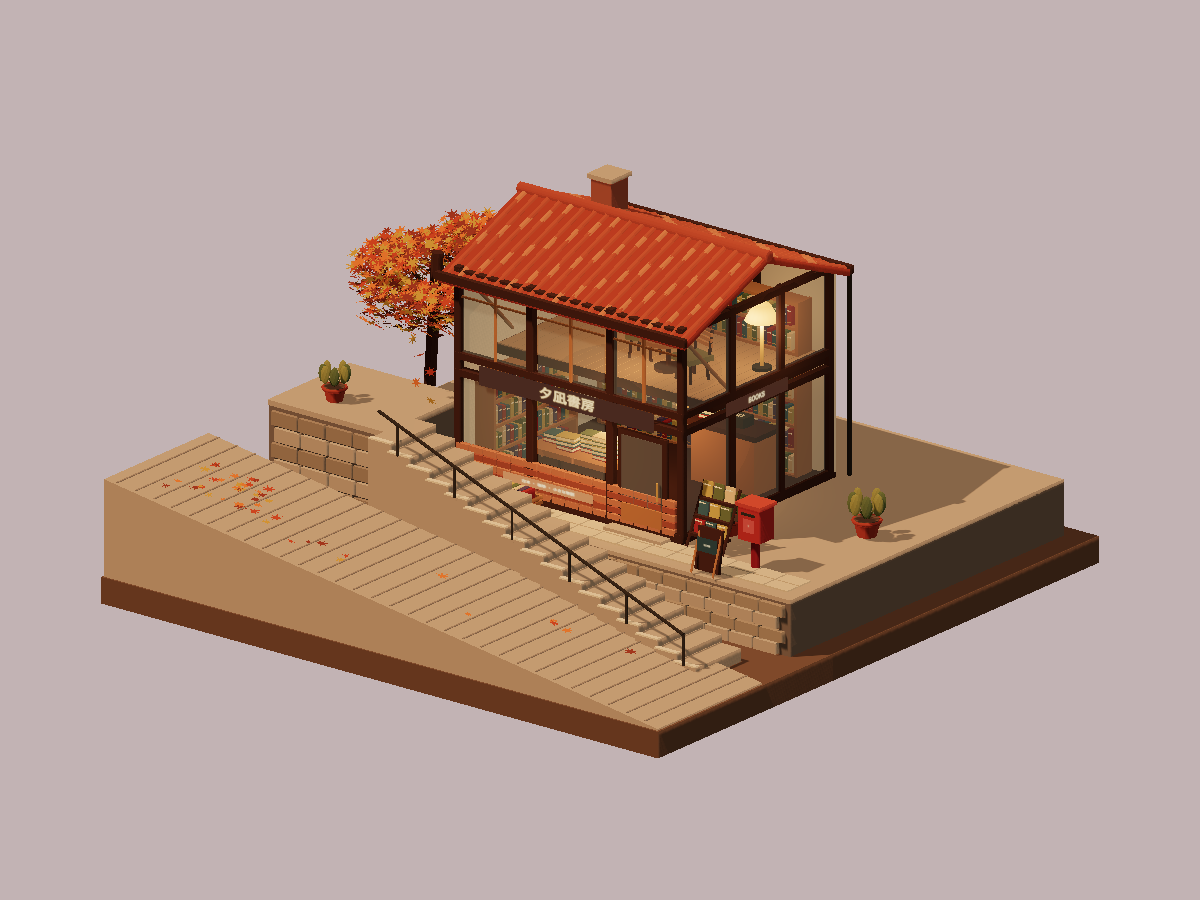
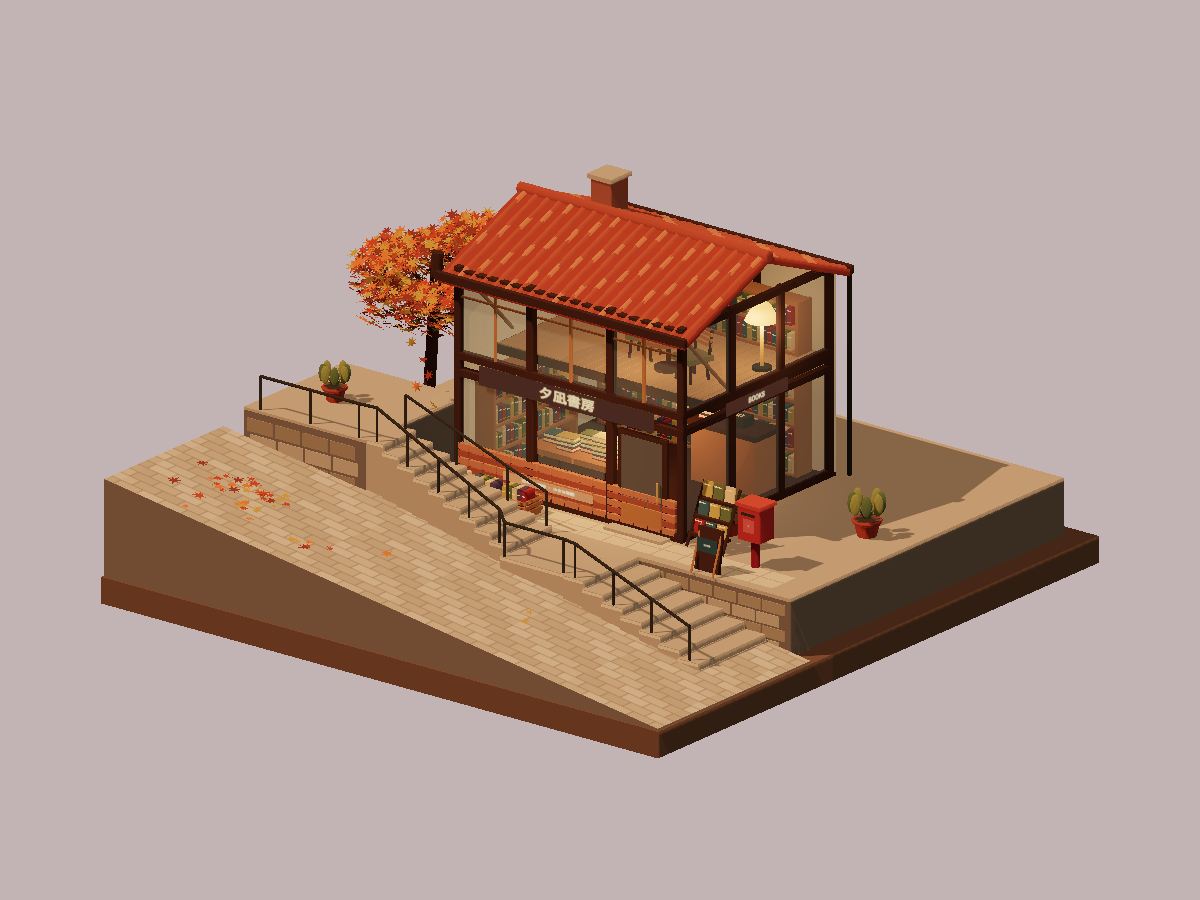
Connect the hillside road, stairs, and shop terrace

diff --git a/scenes/hillside-bookshop/src/terrain.ts b/scenes/hillside-bookshop/src/terrain.ts
@@ -1,0 +1,210 @@
+import * as THREE from "three";
+import type { Kit, XYZ } from "./kit.ts";
+
+interface Palette {
+  earth: string;
+  stone: string;
+  mortar: string;
+  iron: string;
+}
+
+interface Step {
+  left: number;
+  right: number;
+  front: number;
+  height: number;
+  mesh: THREE.Mesh;
+}
+
+export function buildBookshopTerrain(kit: Kit, colors: Palette): THREE.Mesh[] {
+  const base = 0.1;
+  const shopHeight = 1.41;
+  const highHeight = 2.87;
+  const back = 2.25;
+  const bottomX = 6.25;
+  const topX = -3.63;
+  const landingLeft = 0.5;
+  const landingRight = 2.25;
+  const roadHeight = (x: number) => 2.3 - ((x + 7.45) / 14.9) * 2.16;
+  const frontAt = (x: number) => 3.3 + ((x - topX) / (bottomX - topX)) * 1.25;
+  const box = (name: string, position: XYZ, size: XYZ, color: string) => {
+    const mesh = kit.box(position, size, color);
+    mesh.name = name;
+    return mesh;
+  };
+
+  box("bookshop-base", [0, -0.2, 0], [15, 0.6, 15], colors.earth);
+  box("bookshop-foundation", [0, 0.715, -2.4], [13.8, 1.23, 9.3], colors.mortar);
+  box("bookshop-platform", [0, shopHeight - 0.04, -2.4], [13.8, 0.08, 9.3], colors.stone);
+  box(
+    "bookshop-high-foundation",
+    [-5.265, (base + highHeight - 0.06) / 2, 1.7],
+    [3.27, highHeight - 0.06 - base, 3.4],
+    colors.mortar,
+  );
+  const highLanding = box(
+    "bookshop-high-landing",
+    [-5.265, highHeight - 0.03, 1.7],
+    [3.27, 0.06, 3.4],
+    colors.stone,
+  );
+
+  const steps: Step[] = [];
+  const tread = (left: number, right: number, height: number, front: number, landing = false) => {
+    const mesh = box(
+      landing ? "bookshop-stair-landing" : "bookshop-stair-tread",
+      [(left + right) / 2, (base + height) / 2, (back + front) / 2],
+      [right - left, height - base, front - back],
+      colors.stone,
+    );
+    const step = { left, right, front, height, mesh };
+    steps.push(step);
+    const edge = kit.mesh(
+      new THREE.PlaneGeometry(right - left - 0.018, 0.065),
+      kit.toon("#d1bda0"),
+      [(left + right) / 2, height - 0.045, front + 0.002],
+    );
+    edge.name = "bookshop-stair-nosing";
+    return step;
+  };
+
+  const lowSteps: Step[] = [];
+  const lowRise = (shopHeight - roadHeight(bottomX)) / 7;
+  for (let i = 0; i < 7; i++) {
+    const right = bottomX - (i * (bottomX - landingRight)) / 7;
+    const left = bottomX - ((i + 1) * (bottomX - landingRight)) / 7;
+    lowSteps.push(tread(left, right, roadHeight(bottomX) + (i + 1) * lowRise, frontAt(right)));
+  }
+  const landing = tread(landingLeft, landingRight, shopHeight, frontAt(landingRight), true);
+  const highSteps: Step[] = [];
+  for (let i = 0; i < 9; i++) {
+    const right = landingLeft - (i * (landingLeft - topX)) / 9;
+    const left = landingLeft - ((i + 1) * (landingLeft - topX)) / 9;
+    highSteps.push(
+      tread(left, right, shopHeight + ((i + 1) * (highHeight - shopHeight)) / 9, frontAt(right)),
+    );
+  }
+
+  // Match the ramp's inner boundary to every tread, rather than overlapping a rectangular wedge.
+  const boundary: [number, number][] = [
+    [-7.45, 3.4],
+    [topX, 3.4],
+  ];
+  for (const step of [...steps].sort((a, b) => a.left - b.left)) {
+    boundary.push([step.left, step.front], [step.right, step.front]);
+  }
+  boundary.push([bottomX, back], [7.45, back], [7.45, 7.45], [-7.45, 7.45]);
+  const footprint = new THREE.Shape();
+  boundary.forEach(([x, z], i) => {
+    if (i === 0) footprint.moveTo(x, -z);
+    else footprint.lineTo(x, -z);
+  });
+  footprint.closePath();
+  const rampGeometry = new THREE.ExtrudeGeometry(footprint, {
+    depth: 1,
+    bevelEnabled: false,
+  });
+  const rampPositions = rampGeometry.getAttribute("position");
+  for (let i = 0; i < rampPositions.count; i++) {
+    const x = rampPositions.getX(i),
+      z = -rampPositions.getY(i),
+      fraction = rampPositions.getZ(i);
+    rampPositions.setXYZ(i, x, base + fraction * (roadHeight(x) - base), z);
+  }
+  rampGeometry.computeVertexNormals();
+  const street = kit.mesh(rampGeometry, kit.toon(colors.mortar), [0, 0, 0]);
+  street.name = "bookshop-street";
+
+  const paving = kit.paint(512, 512, (ctx) => {
+    ctx.fillStyle = "#887e70";
+    ctx.fillRect(0, 0, 512, 512);
+    const shades = ["#b2a18a", "#b8a790", "#ac9b84", "#bdad95", "#ae9e87"];
+    for (let row = 0; row < 8; row++) {
+      for (let col = -1; col < 5; col++) {
+        ctx.fillStyle =
+          shades[(((row * 7 + col * 3) % shades.length) + shades.length) % shades.length];
+        ctx.fillRect(col * 128 + (row % 2) * 64 + 3, row * 64 + 3, 122, 58);
+      }
+    }
+  });
+  paving.wrapS = paving.wrapT = THREE.RepeatWrapping;
+  paving.repeat.set(1 / 2.4, 1 / 2.4);
+  const pavingMaterial = kit.toon("#ffffff").clone();
+  pavingMaterial.map = paving;
+  const pavingGeometry = new THREE.ShapeGeometry(footprint);
+  const pavingPositions = pavingGeometry.getAttribute("position");
+  for (let i = 0; i < pavingPositions.count; i++) {
+    const x = pavingPositions.getX(i),
+      z = -pavingPositions.getY(i);
+    pavingPositions.setXYZ(i, x, roadHeight(x) + 0.004, z);
+  }
+  pavingGeometry.computeVertexNormals();
+  const roadSurface = kit.mesh(pavingGeometry, pavingMaterial, [0, 0, 0]);
+  roadSurface.name = "bookshop-road-surface";
+
+  for (let row = 0; row < 4; row++) {
+    for (let col = 0; col < 21; col++) {
+      box(
+        "bookshop-retaining-stone",
+        [-6.7 + col * 0.65 + (row % 2) * 0.16, 0.24 + row * 0.29, back + 0.009],
+        [0.59, 0.245, 0.018],
+        row % 2 ? "#9a8871" : colors.stone,
+      );
+    }
+  }
+  for (let row = 0; row < 7; row++) {
+    for (let col = 0; col < 4; col++) {
+      box(
+        "bookshop-high-retaining-stone",
+        [-6.45 + col * 0.74 + (row % 2) * 0.08, 0.35 + row * 0.36, 3.41],
+        [0.67, 0.3, 0.018],
+        row % 2 ? colors.stone : "#93816c",
+      );
+    }
+  }
+  for (let x = -2.68; x < 6.5; x += 0.66) {
+    for (let z = 1.38; z < 2.1; z += 0.42) {
+      const tile = kit.mesh(new THREE.PlaneGeometry(0.62, 0.38), kit.toon("#c5b394"), [
+        x,
+        shopHeight + 0.002,
+        z,
+      ]);
+      tile.rotation.x = -Math.PI / 2;
+    }
+  }
+
+  const guardPoints: XYZ[] = [];
+  const post = (x: number, z: number, surface: number, support: THREE.Mesh, rail: XYZ[]) => {
+    const top: XYZ = [x, surface + 0.76, z];
+    const mesh = kit.rod([x, surface, z], top, 0.028, colors.iron);
+    mesh.name = "bookshop-guard-post";
+    mesh.userData.support = support.uuid;
+    rail.push(top);
+  };
+  lowSteps.forEach((step, i) => {
+    if (i % 2 === 0)
+      post((step.left + step.right) / 2, step.front - 0.065, step.height, step.mesh, guardPoints);
+  });
+  post(landing.right - 0.08, landing.front - 0.065, landing.height, landing.mesh, guardPoints);
+  post(landing.left + 0.08, landing.front - 0.065, landing.height, landing.mesh, guardPoints);
+  highSteps.forEach((step, i) => {
+    if (i % 2 === 0)
+      post((step.left + step.right) / 2, step.front - 0.065, step.height, step.mesh, guardPoints);
+  });
+  post(-3.85, 3.335, highHeight, highLanding, guardPoints);
+  post(-5.15, 3.335, highHeight, highLanding, guardPoints);
+  post(-6.5, 3.335, highHeight, highLanding, guardPoints);
+  for (let i = 1; i < guardPoints.length; i++) {
+    kit.rod(guardPoints[i - 1], guardPoints[i], 0.036, colors.iron).name = "bookshop-guard-rail";
+  }
+  const innerRail: XYZ[] = [];
+  post(landingLeft - 0.1, back + 0.07, highSteps[0].height, highSteps[0].mesh, innerRail);
+  highSteps.forEach((step, i) => {
+    if (i > 0 && i % 3 === 2)
+      post((step.left + step.right) / 2, back + 0.07, step.height, step.mesh, innerRail);
+  });
+  for (let i = 1; i < innerRail.length; i++) {
+    kit.rod(innerRail[i - 1], innerRail[i], 0.032, colors.iron).name = "bookshop-guard-rail";
+  }
+  return [street, roadSurface];
+}

diff --git a/scenes/hillside-bookshop/src/model.ts b/scenes/hillside-bookshop/src/model.ts
@@ -2,6 +2,7 @@ import * as THREE from "three";
 import { type Kit, type XYZ } from "./kit.ts";
 import type { SceneAnimation } from "./types.ts";
 import { scatterGroundLeaves } from "./ground-leaves.ts";
+import { buildBookshopTerrain } from "./terrain.ts";
 
 const C = {
   earth: "#715947",
@@ -34,26 +35,6 @@ export function buildScene(kit: Kit): SceneAnimation {
     const mesh = kit.mesh(new THREE.IcosahedronGeometry(r, 1), kit.toon(color), p);
     if (scale) mesh.scale.set(...scale);
     return mesh;
-  };
-  const wedge = (
-    x: number,
-    z: number,
-    width: number,
-    depth: number,
-    left: number,
-    right: number,
-  ) => {
-    const shape = new THREE.Shape();
-    shape.moveTo(-width / 2, 0.1);
-    shape.lineTo(width / 2, 0.1);
-    shape.lineTo(width / 2, right);
-    shape.lineTo(-width / 2, left);
-    shape.closePath();
-    return kit.mesh(
-      new THREE.ExtrudeGeometry(shape, { depth, bevelEnabled: false }),
-      kit.toon(C.stone),
-      [x, 0, z - depth / 2],
-    );
   };
   const book = (
     x: number,
@@ -145,53 +126,7 @@ export function buildScene(kit: Kit): SceneAnimation {
     for (let i = 0; i < 3; i++) box([0, 0.76 + i * 0.12, -0.3], [0.57, 0.08, 0.045], C.honey, g);
   };
 
-  // The whole diorama sits on a square slab; the street climbs across its face.
-  box([0, -0.2, 0], [15, 0.6, 15], C.earth);
-  box([0, 0.7, -2.4], [13.8, 1.2, 9.3], C.mortar);
-  box([0, 1.33, -2.4], [13.8, 0.09, 9.3], C.stone);
-  const street = wedge(0, 5.68, 14.9, 3.55, 2.3, 0.14);
-  const leafSurfaces = [street];
-  for (let i = 0; i < 30; i++) {
-    const x = -7.13 + i * 0.49;
-    const y = 2.3 - ((x + 7.45) / 14.9) * 2.16;
-    const cobble = box([x, y + 0.035, 5.68], [0.035, 0.018, 3.48], "#8e8171");
-    cobble.rotation.z = -0.144;
-    leafSurfaces.push(cobble);
-  }
-  for (let row = 0; row < 4; row++) {
-    for (let col = 0; col < 21; col++) {
-      const x = -6.7 + col * 0.65 + (row % 2) * 0.16;
-      box([x, 0.24 + row * 0.29, 2.28], [0.59, 0.245, 0.18], row % 2 ? "#9a8871" : C.stone);
-    }
-  }
-  // Broad stair switches diagonally from the low eastern street to the high west lane.
-  for (let i = 0; i < 17; i++) {
-    const x = 5.95 - i * 0.58;
-    const z = 3.88 - i * 0.085;
-    const top = 0.4 + i * 0.155;
-    box([x, (top + 0.1) / 2, z], [0.6, top - 0.1, 1.56], C.stone);
-    box([x, top + 0.018, z + 0.72], [0.6, 0.035, 0.12], "#d6c3a2");
-    if (i % 3 === 0) beam([x, top, z + 0.8], [x, top + 0.7, z + 0.8], 0.03);
-  }
-  beam([5.95, 1.1, 4.68], [-3.33, 3.58, 3.32], 0.038);
-  box([-5.2, 1.43, 1.35], [3.1, 2.66, 2.75], C.mortar);
-  box([-5.2, 2.81, 1.35], [3.15, 0.12, 2.8], C.stone);
-  for (let row = 0; row < 7; row++) {
-    for (let col = 0; col < 4; col++) {
-      box(
-        [-6.3 + col * 0.74 + (row % 2) * 0.08, 0.35 + row * 0.36, 2.77],
-        [0.67, 0.3, 0.1],
-        row % 2 ? C.stone : "#93816c",
-      );
-    }
-  }
-  for (let i = 0; i < 4; i++) {
-    const top = 1.42 + i * 0.345;
-    box([-3.75 - i * 0.37, (top + 1.36) / 2, -0.5], [0.39, top - 1.36 + 0.06, 1.5], C.stone);
-  }
-  for (let x = -3; x < 6.5; x += 0.66) {
-    for (let z = 1.3; z < 2.1; z += 0.42) box([x, 1.39, z], [0.62, 0.035, 0.38], "#c5b394");
-  }
+  const leafSurfaces = buildBookshopTerrain(kit, C);
 
   // Timber frame, open storefront and a glazed upper reading gallery.
   box([0, 1.41, -1.55], [6.1, 0.16, 5.25], C.wood);

diff --git a/README.md b/README.md
@@ -113,7 +113,7 @@ npm run preview --workspace=morning-fish-market
 
 Each production app is written to `scenes/<project>/dist/`. These files can be served by any static web host.
 
-The regression tests include model construction and batching, square-base bounds, leaf contact with flat and sloping ground, the fish market's roof-to-wall connections, and the station benches' supports and clearances. Browser rendering still matters when changing materials, camera framing, or lighting.
+The regression tests include model construction and batching, square-base bounds, leaf contact with flat and sloping ground, hillside road/stair/terrace continuity, the fish market's roof-to-wall connections, and the station benches' supports and clearances. Browser rendering still matters when changing materials, camera framing, or lighting.
 
 ## Static deployment
 

diff --git a/scenes/hillside-bookshop/README.md b/scenes/hillside-bookshop/README.md
@@ -20,4 +20,6 @@ The app opens directly into this model, without a menu. Mouse drag orbits, right
 
 Edit `src/model.ts` for the shop and tree, `src/config.ts` for the sunset lighting, and `src/ground-leaves.ts` for seeded leaf placement. Ground leaves align to their supporting surface; tests cover flat ground, slopes, and step-edge rejection.
 
+`src/terrain.ts` builds the sloping stone street, two stair flights, the level shop approach, and the upper terrace from connected boundaries. Terrain tests check the joins, step heights, road clearance, and handrail supports.
+
 The production output is this project's `dist/` folder. All runtime files and assets belong to this scene. Reduced-motion preferences are respected.
